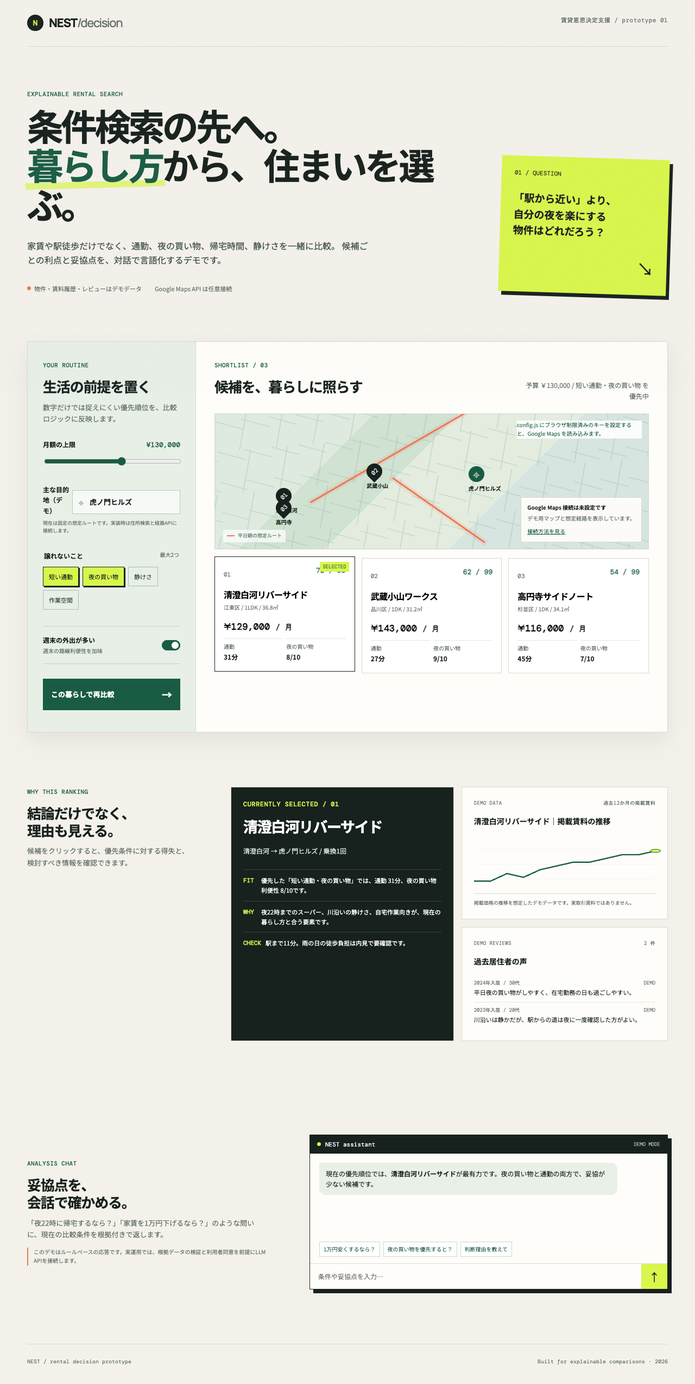
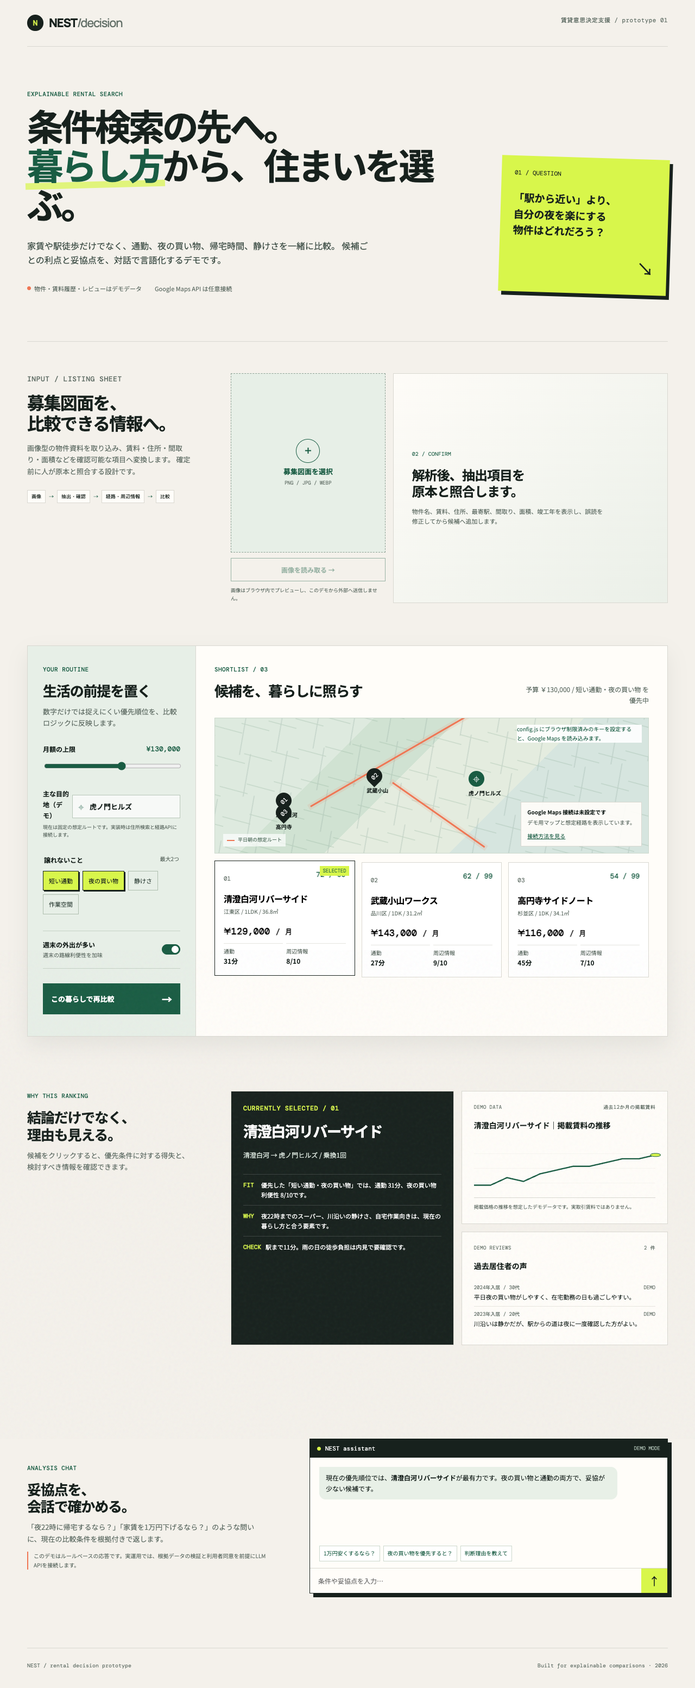
Add rental sheet image intake flow

diff --git a/styles.css b/styles.css
@@ -44,6 +44,41 @@ h1 em::after { content: ""; position: absolute; height: 12px; left: -3px; right:
 .question-index { font: 11px "DM Mono", monospace; }
 .question-card p { font-weight: 700; font-size: 19px; line-height: 1.55; margin: 0; }
 .question-arrow { align-self: flex-end; font-size: 31px; }
+.intake { position: relative; display: grid; grid-template-columns: 310px 1fr; gap: 65px; padding: 58px 0 78px; border-top: 1px solid var(--line); }
+.intake-intro h2 { font: 700 32px/1.18 "Manrope", "Noto Sans JP", sans-serif; letter-spacing: -.05em; margin-bottom: 14px; }
+.intake-intro > p { color: var(--muted); font-size: 13px; }
+.intake-flow { display: flex; flex-wrap: wrap; align-items: center; gap: 6px; margin-top: 24px; font: 9px "DM Mono", monospace; }
+.intake-flow span { padding: 5px 7px; border: 1px solid var(--line); background: var(--paper); }
+.intake-flow i { color: var(--green); font-style: normal; }
+.intake-workflow { display: grid; grid-template-columns: minmax(230px, .72fr) minmax(360px, 1.28fr); gap: 14px; }
+.upload-column { display: flex; flex-direction: column; gap: 10px; }
+.upload-zone { position: relative; display: grid; place-items: center; min-height: 330px; overflow: hidden; border: 1px dashed #8ca093; background: #e7efe7; cursor: pointer; }
+.upload-zone:hover { border-color: var(--green); }
+.upload-input { position: absolute; width: 1px; height: 1px; opacity: 0; }
+.upload-placeholder { display: grid; gap: 5px; place-items: center; color: var(--green); }
+.upload-placeholder[hidden] { display: none; }
+.upload-placeholder::before { content: "+"; display: grid; place-items: center; width: 42px; height: 42px; border: 1px solid var(--green); border-radius: 50%; font: 24px "DM Mono", monospace; }
+.upload-placeholder b { font-size: 13px; }.upload-placeholder small { color: var(--muted); font: 9px "DM Mono", monospace; }
+.upload-zone img { width: 100%; height: 100%; object-fit: contain; background: white; }
+.secondary-action { padding: 11px 13px; border: 1px solid var(--green); color: var(--green); background: transparent; font-size: 12px; font-weight: 700; }
+.secondary-action:disabled { cursor: not-allowed; opacity: .42; }
+.privacy-note { margin: 0; color: var(--muted); font-size: 9px; }
+.extraction-empty { display: flex; min-height: 330px; flex-direction: column; justify-content: center; padding: 34px; border: 1px solid var(--line); background: linear-gradient(135deg, rgba(255,253,249,.9), rgba(231,239,231,.72)); }
+.extraction-empty[hidden] { display: none; }
+.extraction-empty span { color: var(--green); font: 10px "DM Mono", monospace; }
+.extraction-empty strong { margin: 18px 0 12px; font: 700 24px/1.25 "Manrope", "Noto Sans JP", sans-serif; letter-spacing: -.04em; }
+.extraction-empty p { max-width: 360px; margin: 0; color: var(--muted); font-size: 11px; }
+.extraction-card { padding: 22px; border: 1px solid var(--line); background: var(--paper); box-shadow: var(--shadow); }
+.extraction-card[hidden] { display: none; }
+.extraction-status { margin: 15px 0; padding: 8px 10px; border-left: 2px solid var(--coral); color: var(--muted); background: #f8f4ed; font-size: 10px; }
+.extraction-grid { display: grid; grid-template-columns: 1fr 1fr; gap: 10px; }
+.extraction-grid label { color: var(--muted); font-size: 9px; font-weight: 600; }
+.extraction-grid label.wide { grid-column: 1 / -1; }
+.extraction-grid input { width: 100%; margin-top: 4px; padding: 8px 9px; border: 1px solid var(--line); outline: 0; background: white; color: var(--ink); font-size: 11px; }
+.extraction-grid input:focus { border-color: var(--green); box-shadow: 0 0 0 2px rgba(25,92,67,.08); }
+.extraction-note { margin: 13px 0 0; color: var(--muted); font-size: 9px; }
+.primary-action.compact { margin-top: 15px; }
+.intake-message { position: absolute; right: 0; bottom: 34px; margin: 0; color: var(--green); font-size: 11px; font-weight: 700; }
 .workspace { display: grid; grid-template-columns: 310px 1fr; min-height: 720px; background: var(--paper); border: 1px solid var(--line); box-shadow: var(--shadow); }
 .control-panel { padding: 34px 28px; background: #e7efe7; border-right: 1px solid var(--line); }
 .panel-heading h2, .decision-header h2, .section-intro h2, .chat-copy h2 { font: 700 26px/1.22 "Manrope", "Noto Sans JP", sans-serif; letter-spacing: -.045em; margin-bottom: 10px; }
@@ -75,9 +110,11 @@ input[type="range"] { width: 100%; accent-color: var(--green); }
 .grid-lines { position: absolute; inset: -40px; opacity: .32; background-image: linear-gradient(20deg, transparent 48%, #87a992 49%, #87a992 50%, transparent 51%), linear-gradient(105deg, transparent 48%, #91a9a0 49%, #91a9a0 50%, transparent 51%); background-size: 50px 56px, 68px 77px; transform: rotate(-5deg); }.route-line { position: absolute; height: 3px; background: var(--coral); transform-origin: left; box-shadow: 0 0 0 4px rgba(239,118,84,.12); }.route-line-a { width: 47%; top: 65%; left: 22%; transform: rotate(-30deg); }.route-line-b { width: 26%; top: 47%; left: 41%; transform: rotate(35deg); }
 .map-pin { position: absolute; z-index: 2; border: 0; background: transparent; color: var(--ink); text-align: left; padding: 0; }.map-pin span { display: grid; place-items: center; width: 29px; height: 29px; background: var(--ink); color: white; border-radius: 50% 50% 50% 0; transform: rotate(-45deg); font: 11px "DM Mono", monospace; }.map-pin span::first-letter { transform: rotate(45deg); }.map-pin b { display: block; margin-top: 4px; font-size: 10px; white-space: nowrap; }.pin-home { left: 14%; bottom: 25%; }.pin-two { left: 35%; top: 19%; }.pin-three { right: 15%; bottom: 16%; }.pin-destination { right: 34%; top: 39%; }.pin-destination span { background: var(--green); border-radius: 50%; transform: none; font-size: 15px; }.map-legend { position: absolute; z-index: 3; left: 15px; bottom: 12px; display: flex; align-items: center; gap: 6px; color: #557161; background: rgba(255,255,255,.68); padding: 4px 7px; font-size: 9px; }.legend-line { display: inline-block; width: 14px; height: 2px; background: var(--coral); }
 .map-overlay { position: absolute; display: flex; flex-direction: column; align-items: flex-start; gap: 3px; right: 12px; bottom: 12px; z-index: 4; max-width: 260px; padding: 10px 11px; background: rgba(255,253,249,.92); border: 1px solid var(--line); font-size: 10px; }.map-overlay span { color: var(--muted); }.map-overlay button { margin-top: 5px; padding: 0; border: 0; background: transparent; color: var(--green); text-decoration: underline; font-size: 10px; }.map-api-note { position: absolute; top: 12px; right: 12px; z-index: 6; max-width: 230px; color: var(--green); background: rgba(255,255,255,.9); font-size: 10px; }
-.candidate-grid { display: grid; grid-template-columns: repeat(3, 1fr); gap: 12px; margin-top: 16px; }.candidate { position: relative; padding: 16px; text-align: left; border: 1px solid var(--line); background: white; min-height: 205px; transition: transform .18s, border-color .18s; }.candidate:hover, .candidate.selected { border-color: var(--ink); transform: translateY(-3px); }.candidate.selected::after { content: "SELECTED"; position: absolute; right: 10px; top: 9px; padding: 3px 5px; color: var(--green); background: var(--acid); font: 9px "DM Mono", monospace; }.candidate-rank { font: 11px "DM Mono", monospace; color: var(--muted); }.candidate-score { float: right; color: var(--green); font: 700 13px "DM Mono", monospace; }.candidate h3 { font: 700 16px/1.3 "Manrope", "Noto Sans JP", sans-serif; letter-spacing: -.03em; margin: 18px 0 4px; }.candidate .area { color: var(--muted); font-size: 10px; }.candidate .rent { margin: 15px 0 10px; font: 600 17px "DM Mono", monospace; }.candidate-stats { display: grid; grid-template-columns: 1fr 1fr; gap: 6px; }.candidate-stats span { padding-top: 6px; border-top: 1px solid #e5e5df; color: var(--muted); font-size: 10px; }.candidate-stats b { display: block; color: var(--ink); font-size: 12px; }
+.candidate-grid { display: grid; grid-template-columns: repeat(auto-fit, minmax(180px, 1fr)); gap: 12px; margin-top: 16px; }.candidate { position: relative; padding: 16px; text-align: left; border: 1px solid var(--line); background: white; min-height: 205px; transition: transform .18s, border-color .18s; }.candidate:hover, .candidate.selected { border-color: var(--ink); transform: translateY(-3px); }.candidate.selected::after { content: "SELECTED"; position: absolute; right: 10px; top: 9px; padding: 3px 5px; color: var(--green); background: var(--acid); font: 9px "DM Mono", monospace; }.candidate-rank { font: 11px "DM Mono", monospace; color: var(--muted); }.candidate-score { float: right; color: var(--green); font: 700 13px "DM Mono", monospace; }.candidate h3 { font: 700 16px/1.3 "Manrope", "Noto Sans JP", sans-serif; letter-spacing: -.03em; margin: 18px 0 4px; }.candidate .area { color: var(--muted); font-size: 10px; }.candidate .rent { margin: 15px 0 10px; font: 600 17px "DM Mono", monospace; }.candidate-stats { display: grid; grid-template-columns: 1fr 1fr; gap: 6px; }.candidate-stats span { padding-top: 6px; border-top: 1px solid #e5e5df; color: var(--muted); font-size: 10px; }.candidate-stats b { display: block; color: var(--ink); font-size: 12px; }
 .insights { display: grid; grid-template-columns: 310px 1fr; gap: 65px; padding: 100px 0; }.section-intro p:last-child { color: var(--muted); font-size: 13px; }.insight-content { display: grid; grid-template-columns: 1.08fr 1fr; gap: 14px; }.selected-card, .chart-card, .review-card { background: var(--paper); border: 1px solid var(--line); padding: 22px; }.selected-card { grid-row: span 2; background: var(--ink); color: white; }.selected-card .eyebrow { color: var(--acid); }.selected-card h3 { font: 700 27px/1.15 "Manrope", "Noto Sans JP", sans-serif; letter-spacing: -.05em; margin-bottom: 18px; }.selected-card p { font-size: 12px; color: #d4dfd7; }.reason-list { display: grid; gap: 10px; margin: 25px 0 0; }.reason { display: flex; gap: 8px; padding-top: 10px; border-top: 1px solid rgba(255,255,255,.15); font-size: 11px; }.reason b { color: var(--acid); min-width: 25px; font-family: "DM Mono", monospace; }.card-topline { display: flex; justify-content: space-between; gap: 8px; color: var(--muted); font-size: 9px; }.chart-card h3, .review-card h3 { margin: 14px 0; font-size: 14px; }.rent-chart { position: relative; height: 108px; border-bottom: 1px solid var(--line); background: repeating-linear-gradient(to bottom, transparent 0 26px, #efeee8 27px); }.chart-svg { width: 100%; height: 100%; overflow: visible; }.chart-footnote { color: var(--muted); font-size: 9px; margin: 10px 0 0; }.review-card { min-height: 170px; }.review { padding: 8px 0; border-top: 1px solid #e8e6df; font-size: 11px; }.review:first-of-type { border-top: 0; }.review-meta { display: flex; justify-content: space-between; color: var(--muted); font: 9px "DM Mono", monospace; margin-bottom: 2px; }
+.empty-data { display: grid; place-items: center; height: 100%; padding: 15px; color: var(--muted); text-align: center; font-size: 10px; }
 .chat-section { display: grid; grid-template-columns: .8fr 1.2fr; gap: 80px; align-items: center; padding: 72px 0 100px; }.chat-copy p:last-of-type { color: var(--muted); font-size: 13px; }.chat-disclaimer { border-left: 2px solid var(--coral); padding-left: 10px; color: var(--muted); font-size: 10px; }.chat-window { overflow: hidden; border: 1px solid var(--ink); background: var(--paper); box-shadow: 7px 7px 0 var(--ink); }.chat-window-top { display: flex; gap: 8px; align-items: center; padding: 10px 13px; background: var(--ink); color: white; font: 11px "DM Mono", monospace; }.status-dot { width: 7px; height: 7px; border-radius: 50%; background: var(--acid); }.chat-mode { margin-left: auto; color: #a8b9ae; font-size: 9px; }.messages { min-height: 162px; padding: 17px; }.message { max-width: 88%; padding: 10px 12px; margin-bottom: 10px; border-radius: 1px 12px 12px 12px; font-size: 12px; }.assistant { background: #e8f0e7; }.user { margin-left: auto; background: #f3edcf; border-radius: 12px 1px 12px 12px; }.prompt-suggestions { display: flex; flex-wrap: wrap; gap: 6px; padding: 0 17px 12px; }.prompt-suggestions button { padding: 5px 7px; border: 1px solid #ccd8cd; color: var(--green); background: white; font-size: 10px; }.chat-input-row { display: flex; border-top: 1px solid var(--line); }.chat-input-row input { flex: 1; border: 0; outline: 0; padding: 13px 15px; background: transparent; font-size: 12px; }.chat-input-row button { width: 48px; border: 0; color: var(--ink); background: var(--acid); font-size: 20px; }
 footer { display: flex; justify-content: space-between; gap: 20px; padding: 25px 0 35px; color: var(--muted); border-top: 1px solid var(--line); font: 10px "DM Mono", monospace; }
-@media (max-width: 900px) { .hero, .workspace, .insights, .chat-section { grid-template-columns: 1fr; }.hero { gap: 35px; }.question-card { max-width: 320px; }.control-panel { border-right: 0; border-bottom: 1px solid var(--line); }.insights, .chat-section { gap: 35px; }.insight-content { grid-template-columns: 1fr; }.selected-card { grid-row: auto; }.chat-section { padding-top: 30px; }.candidate-grid { grid-template-columns: 1fr; }.site-header, .section-shell, footer { width: min(100% - 28px, 1180px); }}
-@media (max-width: 540px) { .site-header { height: 65px; }.header-note { display: none; }.hero { padding: 48px 0 58px; } h1 { font-size: 40px; }.decision-area, .control-panel { padding: 24px 18px; }.decision-header { align-items: flex-start; flex-direction: column; }.decision-summary { text-align: left; }.map-card { height: 230px; }.map-overlay { left: 10px; right: auto; bottom: 10px; }.pin-three { display: none; } footer { flex-direction: column; gap: 5px; }}
+@media (max-width: 900px) { .hero, .intake, .workspace, .insights, .chat-section { grid-template-columns: 1fr; }.hero { gap: 35px; }.intake { gap: 28px; }.question-card { max-width: 320px; }.control-panel { border-right: 0; border-bottom: 1px solid var(--line); }.insights, .chat-section { gap: 35px; }.insight-content { grid-template-columns: 1fr; }.selected-card { grid-row: auto; }.chat-section { padding-top: 30px; }.candidate-grid { grid-template-columns: 1fr; }.site-header, .section-shell, footer { width: min(100% - 28px, 1180px); }}
+@media (max-width: 650px) { .intake-workflow { grid-template-columns: 1fr; }.upload-zone { min-height: 260px; }.intake-message { position: static; margin-top: 12px; }.extraction-grid { grid-template-columns: 1fr; }.extraction-grid label.wide { grid-column: auto; } }
+@media (max-width: 540px) { .site-header { height: 65px; }.header-note { display: none; }.hero { padding: 48px 0 58px; } h1 { font-size: 40px; }.intake { padding: 38px 0 58px; }.decision-area, .control-panel { padding: 24px 18px; }.decision-header { align-items: flex-start; flex-direction: column; }.decision-summary { text-align: left; }.map-card { height: 230px; }.map-overlay { left: 10px; right: auto; bottom: 10px; }.pin-three { display: none; } footer { flex-direction: column; gap: 5px; }}

diff --git a/app.js b/app.js
@@ -70,15 +70,17 @@ const state = {
 
 const yen = (value) => new Intl.NumberFormat("ja-JP", { style: "currency", currency: "JPY", maximumFractionDigits: 0 }).format(value);
 const byId = (id) => properties.find((property) => property.id === id);
+const escapeHTML = (value) => String(value).replace(/[&<>'"]/g, (character) => ({ "&": "&amp;", "<": "&lt;", ">": "&gt;", "'": "&#39;", '"': "&quot;" })[character]);
 
 function scoreProperty(property) {
   const budgetScore = property.rent <= state.budget ? 25 : Math.max(0, 25 - (property.rent - state.budget) / 700);
-  const commuteValue = Math.max(0, 10 - Math.max(0, property.commute - 20) / 3);
+  const commuteValue = property.enriched === false ? 5 : Math.max(0, 10 - Math.max(0, property.commute - 20) / 3);
   let score = budgetScore + commuteValue * 1.2;
   state.priorities.forEach((priority) => {
-    score += (priority === "commute" ? commuteValue : property[priority]) * 2.5;
+    const value = priority === "commute" ? commuteValue : (property[priority] ?? 5);
+    score += value * 2.5;
   });
-  if (state.weekend) score += property.weekend * 0.6;
+  if (state.weekend) score += (property.weekend ?? 5) * 0.6;
   return Math.round(Math.min(99, score));
 }
 
@@ -89,21 +91,25 @@ function rankedProperties() {
 function renderCandidates() {
   const ranked = rankedProperties();
   const candidateGrid = document.querySelector("#candidateGrid");
-  candidateGrid.innerHTML = ranked.map((property, index) => `
-    <button type="button" class="candidate ${property.id === state.selectedId ? "selected" : ""}" data-property="${property.id}">
-      <span class="candidate-rank">0${index + 1}</span><span class="candidate-score">${scoreProperty(property)} / 99</span>
-      <h3>${property.name}</h3>
-      <p class="area">${property.area}</p>
-      <p class="rent">${yen(property.rent)} <small>/ 月</small></p>
-      <div class="candidate-stats">
-        <span>通勤<b>${property.commute}分</b></span>
-        <span>夜の買い物<b>${property.late}/10</b></span>
-      </div>
-    </button>
-  `).join("");
+  candidateGrid.innerHTML = ranked.map((property, index) => {
+    const provisional = property.enriched === false;
+    return `
+      <button type="button" class="candidate ${property.id === state.selectedId ? "selected" : ""}" data-property="${escapeHTML(property.id)}">
+        <span class="candidate-rank">${String(index + 1).padStart(2, "0")}</span><span class="candidate-score">${provisional ? "暫定 " : ""}${scoreProperty(property)} / 99</span>
+        <h3>${escapeHTML(property.name)}</h3>
+        <p class="area">${escapeHTML(property.area)}</p>
+        <p class="rent">${yen(property.rent)} <small>/ 月</small></p>
+        <div class="candidate-stats">
+          <span>通勤<b>${provisional ? "未取得" : `${property.commute}分`}</b></span>
+          <span>周辺情報<b>${provisional ? "未取得" : `${property.late}/10`}</b></span>
+        </div>
+      </button>
+    `;
+  }).join("");
 
   candidateGrid.querySelectorAll("[data-property]").forEach((element) => element.addEventListener("click", () => selectProperty(element.dataset.property)));
   document.querySelector("#decisionSummary").textContent = `予算 ${yen(state.budget)} / ${[...state.priorities].map(priorityLabel).join("・")} を優先中`;
+  document.querySelector("#shortlistCount").textContent = String(properties.length).padStart(2, "0");
 }
 
 function priorityLabel(key) {
@@ -112,6 +118,7 @@ function priorityLabel(key) {
 
 function renderSelected() {
   const property = byId(state.selectedId);
+  const provisional = property.enriched === false;
   const activePriorities = [...state.priorities];
   const priorityDetails = activePriorities.map((priority) => {
     if (priority === "commute") return `通勤 ${property.commute}分`;
@@ -120,25 +127,41 @@ function renderSelected() {
     return `作業空間 ${property.space}/10`;
   }).join("、");
   const priorityNames = activePriorities.map(priorityLabel).join("・");
+  const fitText = provisional
+    ? `画像から抽出した賃料・間取りのみで暫定評価しています。「${priorityNames}」の実測データは未取得です。`
+    : `優先した「${priorityNames}」では、${priorityDetails}です。`;
+  const whyText = provisional
+    ? `${yen(property.rent)}、${escapeHTML(property.area)}を原本確認用の候補情報として追加しました。`
+    : `${property.tags.map(escapeHTML).join("、")}は、現在の暮らし方と合う要素です。`;
   document.querySelector("#selectedCard").innerHTML = `
     <p class="eyebrow">CURRENTLY SELECTED / ${String(rankedProperties().findIndex((item) => item.id === property.id) + 1).padStart(2, "0")}</p>
-    <h3>${property.name}</h3>
-    <p>${property.route}</p>
+    <h3>${escapeHTML(property.name)}</h3>
+    <p>${escapeHTML(property.route)}</p>
     <div class="reason-list">
-      <div class="reason"><b>FIT</b><span>優先した「${priorityNames}」では、${priorityDetails}です。</span></div>
-      <div class="reason"><b>WHY</b><span>${property.tags.join("、")}は、現在の暮らし方と合う要素です。</span></div>
-      <div class="reason"><b>CHECK</b><span>${property.tradeoff}</span></div>
+      <div class="reason"><b>FIT</b><span>${fitText}</span></div>
+      <div class="reason"><b>WHY</b><span>${whyText}</span></div>
+      <div class="reason"><b>CHECK</b><span>${escapeHTML(property.tradeoff)}</span></div>
     </div>
   `;
   renderChart(property);
-  document.querySelector("#chartTitle").textContent = `${property.name}｜掲載賃料の推移`;
+  document.querySelector("#chartTitle").textContent = provisional ? `${property.name}｜賃料履歴は未取得` : `${property.name}｜掲載賃料の推移`;
+  document.querySelector("#chartPeriod").textContent = provisional ? "現在の募集賃料のみ" : "過去12か月の掲載賃料";
+  document.querySelector("#chartFootnote").textContent = provisional
+    ? "掲載・成約履歴の提供元へ接続するまで、推移は評価に使用しません。"
+    : "掲載価格の推移を想定したデモデータです。実取引賃料ではありません。";
   document.querySelector("#reviewCount").textContent = `${property.reviews.length} 件`;
-  document.querySelector("#reviews").innerHTML = property.reviews.map((review) => `
-    <div class="review"><div class="review-meta"><span>${review.from}</span><span>DEMO</span></div><span>${review.text}</span></div>
-  `).join("");
+  document.querySelector("#reviews").innerHTML = property.reviews.length
+    ? property.reviews.map((review) => `
+      <div class="review"><div class="review-meta"><span>${escapeHTML(review.from)}</span><span>DEMO</span></div><span>${escapeHTML(review.text)}</span></div>
+    `).join("")
+    : '<div class="empty-data">再利用許諾済みの居住者レビューは未取得です。</div>';
 }
 
 function renderChart(property) {
+  if (property.hasRentHistory === false) {
+    document.querySelector("#rentChart").innerHTML = '<div class="empty-data">画像から確認できるのは現在の募集賃料のみです。履歴データの接続が必要です。</div>';
+    return;
+  }
   const values = property.rents;
   const min = Math.min(...values) - 2;
   const max = Math.max(...values) + 2;
@@ -182,16 +205,88 @@ function respondToChat(question) {
   const affordable = [...properties].sort((a, b) => a.rent - b.rent)[0];
   const lower = question.toLowerCase();
   if (lower.includes("1万円") || lower.includes("安く")) {
+    if (affordable.enriched === false) {
+      return `家賃だけで比較すると<strong>${escapeHTML(affordable.name)}</strong>です。ただし、通勤と周辺施設は未取得のため、現時点では暫定候補です。`;
+    }
     return `家賃を抑えるなら<strong>${affordable.name}</strong>です。${yen(best.rent - affordable.rent)}安くなりますが、通勤は${affordable.commute - best.commute}分長くなります。`;
   }
   if (lower.includes("買い物") || lower.includes("夜")) {
-    const nightBest = [...properties].sort((a, b) => b.late - a.late)[0];
+    const nightBest = properties.filter((property) => property.enriched !== false).sort((a, b) => b.late - a.late)[0];
     return `夜の買い物を最優先するなら<strong>${nightBest.name}</strong>です。利便性は${nightBest.late}/10ですが、${nightBest.tradeoff}`;
   }
   if (lower.includes("理由") || lower.includes("なぜ")) {
+    if (best.enriched === false) return `<strong>${escapeHTML(best.name)}</strong>は家賃・間取りだけの暫定評価です。経路と周辺施設を取得するまで最終順位にはできません。`;
     return `<strong>${best.name}</strong>は、${priorityLabel([...state.priorities][0])}と${priorityLabel([...state.priorities][1] || "space")}の両方でバランスが良く、予算との差額も小さいためです。`;
   }
   return `現在の条件では<strong>${best.name}</strong>が最有力です。「1万円安くするなら？」「夜の買い物を優先すると？」のように、妥協したい条件を聞いてください。`;
+}
+
+function setupListingIntake() {
+  const upload = document.querySelector("#listingUpload");
+  const preview = document.querySelector("#listingPreview");
+  const placeholder = document.querySelector("#uploadPlaceholder");
+  const analyzeButton = document.querySelector("#analyzeListing");
+  const form = document.querySelector("#extractionForm");
+  const emptyState = document.querySelector("#extractionEmpty");
+  const message = document.querySelector("#intakeMessage");
+  let previewUrl;
+
+  upload.addEventListener("change", () => {
+    const [file] = upload.files;
+    if (!file) return;
+    if (previewUrl) URL.revokeObjectURL(previewUrl);
+    previewUrl = URL.createObjectURL(file);
+    preview.src = previewUrl;
+    preview.hidden = false;
+    placeholder.hidden = true;
+    analyzeButton.disabled = false;
+    message.textContent = `${file.name} をブラウザ内で読み込みました。`;
+  });
+
+  analyzeButton.addEventListener("click", () => {
+    emptyState.hidden = true;
+    form.hidden = false;
+    document.querySelector("#intakeStatus").textContent = "サンプル抽出値を表示しています。黄色い募集図面の原本と照合し、必要に応じて修正してください。";
+    message.textContent = "抽出結果は未確定です。確認後に候補へ追加できます。";
+  });
+
+  form.addEventListener("submit", (event) => {
+    event.preventDefault();
+    const name = document.querySelector("#extractedName").value.trim() || "画像から追加した物件";
+    const rent = Math.max(0, Number(document.querySelector("#extractedRent").value) || 0);
+    const address = document.querySelector("#extractedAddress").value.trim();
+    const station = document.querySelector("#extractedStation").value.trim();
+    const layout = document.querySelector("#extractedLayout").value.trim();
+    const area = Number(document.querySelector("#extractedArea").value) || 0;
+    const year = document.querySelector("#extractedYear").value.trim();
+    const district = address.match(/東京都([^区]+区)/)?.[1] || "所在地要確認";
+    const imported = {
+      id: "uploaded-listing",
+      name,
+      area: `${district} / ${layout || "間取り要確認"} / ${area || "面積要確認"}${area ? "㎡" : ""}`,
+      rent,
+      commute: null,
+      late: null,
+      quiet: null,
+      space: null,
+      weekend: null,
+      enriched: false,
+      route: "経路API接続後に計算",
+      tags: [station || "最寄駅要確認", year ? `${year}年竣工` : "竣工年要確認", "画像から抽出"],
+      tradeoff: "画像の読み取り結果を原本と照合し、Routes APIとPlaces APIで通勤・周辺施設を補完する必要があります。",
+      hasRentHistory: false,
+      rents: [],
+      reviews: [],
+    };
+    const existingIndex = properties.findIndex((property) => property.id === imported.id);
+    if (existingIndex >= 0) properties.splice(existingIndex, 1, imported);
+    else properties.push(imported);
+    state.selectedId = imported.id;
+    renderCandidates();
+    renderSelected();
+    message.textContent = `${name}を暫定候補に追加しました。未取得項目は順位上で明示しています。`;
+    document.querySelector(".workspace").scrollIntoView({ behavior: "smooth", block: "start" });
+  });
 }
 
 function initialiseGoogleMaps() {
@@ -221,6 +316,7 @@ function initialiseGoogleMaps() {
 }
 
 document.addEventListener("DOMContentLoaded", () => {
+  setupListingIntake();
   const budget = document.querySelector("#budget");
   budget.addEventListener("input", () => { state.budget = Number(budget.value); document.querySelector("#budgetOutput").value = yen(state.budget); });
   document.querySelector("#priorityChips").addEventListener("click", (event) => {

diff --git a/index.html b/index.html
@@ -50,6 +50,58 @@
         </aside>
       </section>
 
+      <section class="intake section-shell" aria-labelledby="intakeTitle">
+        <div class="intake-intro">
+          <p class="eyebrow">INPUT / LISTING SHEET</p>
+          <h2 id="intakeTitle">募集図面を、<br />比較できる情報へ。</h2>
+          <p>
+            画像型の物件資料を取り込み、賃料・住所・間取り・面積などを確認可能な項目へ変換します。
+            確定前に人が原本と照合する設計です。
+          </p>
+          <div class="intake-flow" aria-label="画像入力から比較までの流れ">
+            <span>画像</span><i>→</i><span>抽出・確認</span><i>→</i><span>経路・周辺情報</span><i>→</i><span>比較</span>
+          </div>
+        </div>
+
+        <div class="intake-workflow">
+          <div class="upload-column">
+            <label class="upload-zone" for="listingUpload">
+              <input class="upload-input" id="listingUpload" type="file" accept="image/png,image/jpeg,image/webp" />
+              <span class="upload-placeholder" id="uploadPlaceholder">
+                <b>募集図面を選択</b>
+                <small>PNG / JPG / WEBP</small>
+              </span>
+              <img id="listingPreview" alt="アップロードした募集図面のプレビュー" hidden />
+            </label>
+            <button class="secondary-action" id="analyzeListing" type="button" disabled>画像を読み取る →</button>
+            <p class="privacy-note">画像はブラウザ内でプレビューし、このデモから外部へ送信しません。</p>
+          </div>
+
+          <div class="extraction-empty" id="extractionEmpty">
+            <span>02 / CONFIRM</span>
+            <strong>解析後、抽出項目を<br />原本と照合します。</strong>
+            <p>物件名、賃料、住所、最寄駅、間取り、面積、竣工年を表示し、誤読を修正してから候補へ追加します。</p>
+          </div>
+
+          <form class="extraction-card" id="extractionForm" hidden>
+            <div class="card-topline"><span>SAMPLE EXTRACTION</span><span>要原本確認</span></div>
+            <div class="extraction-status" id="intakeStatus">画像を選択してください。</div>
+            <div class="extraction-grid">
+              <label>物件・部屋名<input id="extractedName" value="モノハウス 104号室" /></label>
+              <label>月額賃料<input id="extractedRent" type="number" value="95000" min="0" /></label>
+              <label class="wide">住所<input id="extractedAddress" value="東京都世田谷区代田5-35-30" /></label>
+              <label>最寄駅<input id="extractedStation" value="下北沢駅 徒歩2分" /></label>
+              <label>間取り<input id="extractedLayout" value="1K" /></label>
+              <label>専有面積（㎡）<input id="extractedArea" type="number" value="21.37" min="0" step="0.01" /></label>
+              <label>竣工年<input id="extractedYear" type="number" value="2001" min="1900" /></label>
+            </div>
+            <p class="extraction-note">現在はこの形式を想定した固定サンプル抽出です。実運用ではサーバー側のVision/OCR APIへ接続し、信頼度と出典領域を保持します。</p>
+            <button class="primary-action compact" type="submit">確認して暫定候補に追加 <span>→</span></button>
+          </form>
+        </div>
+        <p class="intake-message" id="intakeMessage" aria-live="polite"></p>
+      </section>
+
       <section class="workspace section-shell" aria-label="賃貸候補を比較するワークスペース">
         <aside class="control-panel">
           <div class="panel-heading">
@@ -94,7 +146,7 @@
         <div class="decision-area">
           <div class="decision-header">
             <div>
-              <p class="eyebrow">SHORTLIST / 03</p>
+              <p class="eyebrow">SHORTLIST / <span id="shortlistCount">03</span></p>
               <h2>候補を、暮らしに照らす</h2>
             </div>
             <p id="decisionSummary" class="decision-summary"></p>
@@ -132,10 +184,10 @@
         <div class="insight-content">
           <article class="selected-card" id="selectedCard"></article>
           <article class="chart-card">
-            <div class="card-topline"><span>DEMO DATA</span><span>過去12か月の掲載賃料</span></div>
+            <div class="card-topline"><span>DEMO DATA</span><span id="chartPeriod">過去12か月の掲載賃料</span></div>
             <h3 id="chartTitle">掲載賃料の推移</h3>
             <div class="rent-chart" id="rentChart" aria-label="掲載賃料の推移グラフ"></div>
-            <p class="chart-footnote">掲載価格の推移を想定したデモデータです。実取引賃料ではありません。</p>
+            <p class="chart-footnote" id="chartFootnote">掲載価格の推移を想定したデモデータです。実取引賃料ではありません。</p>
           </article>
           <article class="review-card">
             <div class="card-topline"><span>DEMO REVIEWS</span><span id="reviewCount">2 件</span></div>

diff --git a/README.en.md b/README.en.md
@@ -10,6 +10,9 @@ The goal is not to output a single opaque “best” property. It helps a user u
 
 ## What the demo shows
 
+- Uploads and previews PNG, JPEG, or WEBP rental sheets locally in the browser
+- Lets the user review and edit sample-extracted rent, address, station, layout, floor area, and construction year
+- Adds the uploaded listing as a provisional candidate while clearly marking route and neighborhood data as missing
 - Re-ranks candidates from a monthly budget and up to two non-negotiable priorities
 - Compares commute time, late-night shopping, quietness, and workspace suitability
 - Explains the fit, trade-offs, and questions to check during a viewing
@@ -17,7 +20,7 @@ The goal is not to output a single opaque “best” property. It helps a user u
 - Answers trade-off questions such as “What if I reduce the rent by ¥10,000?”
 - Displays Google Maps when a Maps JavaScript API key is configured
 
-The current chat is rule-based so that its reasoning remains easy to inspect. All properties, routes, rent histories, reviews, and facility scores are fictional demo data.
+The current image analysis uses fixed sample extraction values for this rental-sheet format, and the uploaded image never leaves the browser. A production version would send the image to a server-side Vision/OCR endpoint and return extracted values, confidence scores, and evidence regions. The current chat is rule-based so that its reasoning remains easy to inspect. All properties, routes, rent histories, reviews, and facility scores are fictional demo data.
 
 ## Run locally
 
@@ -50,6 +53,7 @@ cp config.example.js config.js
 |Purpose|Candidate integration|Design requirement|
 |---|---|---|
 |Property inventory|Licensed or contract-authorized property feed|Track property ID, listing date, address, rent, and floor plan|
+|Rental-sheet structuring|Server-side Vision/OCR endpoint|Process images temporarily and return field-level confidence and evidence regions for human confirmation|
 |Address resolution|Geocoding API|Convert an address or Place ID into coordinates|
 |Map display|Maps JavaScript API|Restrict the browser key by HTTP referrer and API scope|
 |Commute and daily routes|Routes API|Compare candidate–destination pairs with `computeRouteMatrix`, retaining weekday, departure time, and travel mode as evidence|
@@ -83,6 +87,7 @@ Official references: [Maps JavaScript API](https://developers.google.com/maps/do
 ## Verified interactions
 
 - Re-ranking after preference changes
+- Image upload, preview, sample extraction, and provisional-candidate insertion
 - Synchronized explanation, rent chart, and reviews after candidate selection
 - Chat responses to trade-off questions
 - Responsive desktop and mobile layouts
